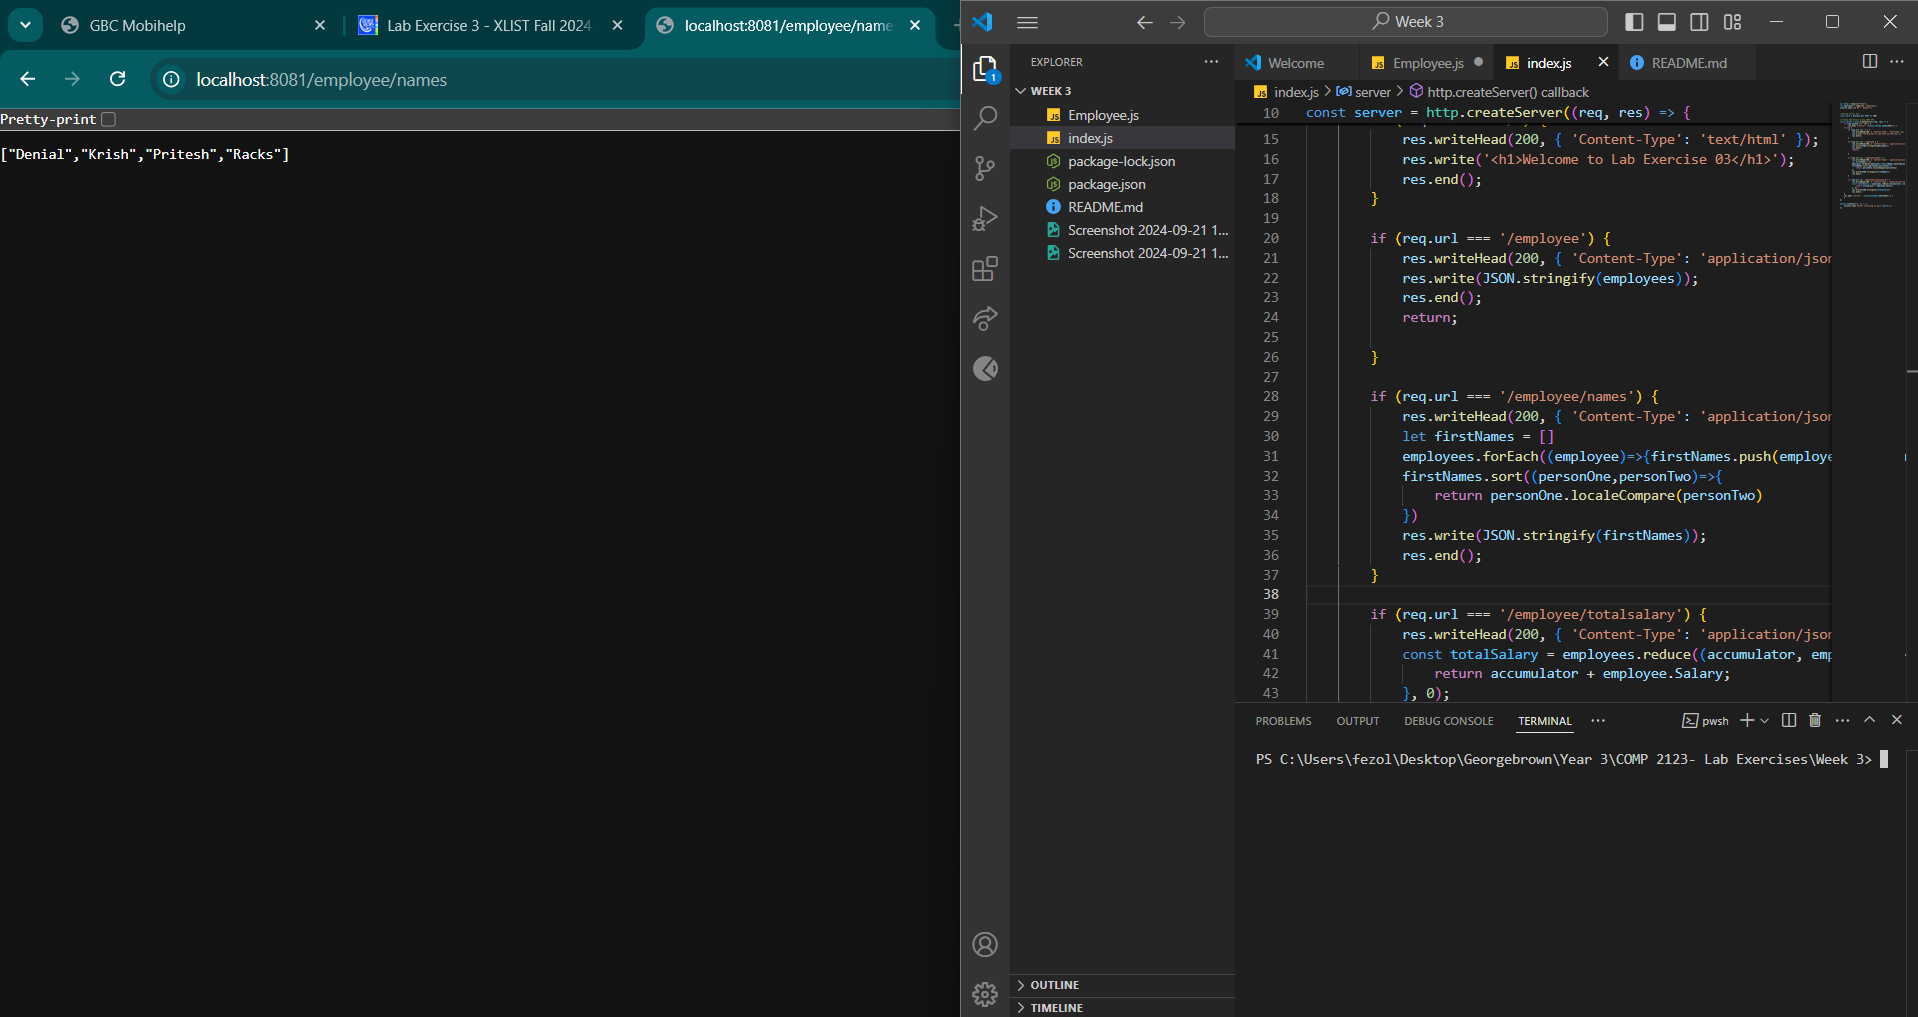
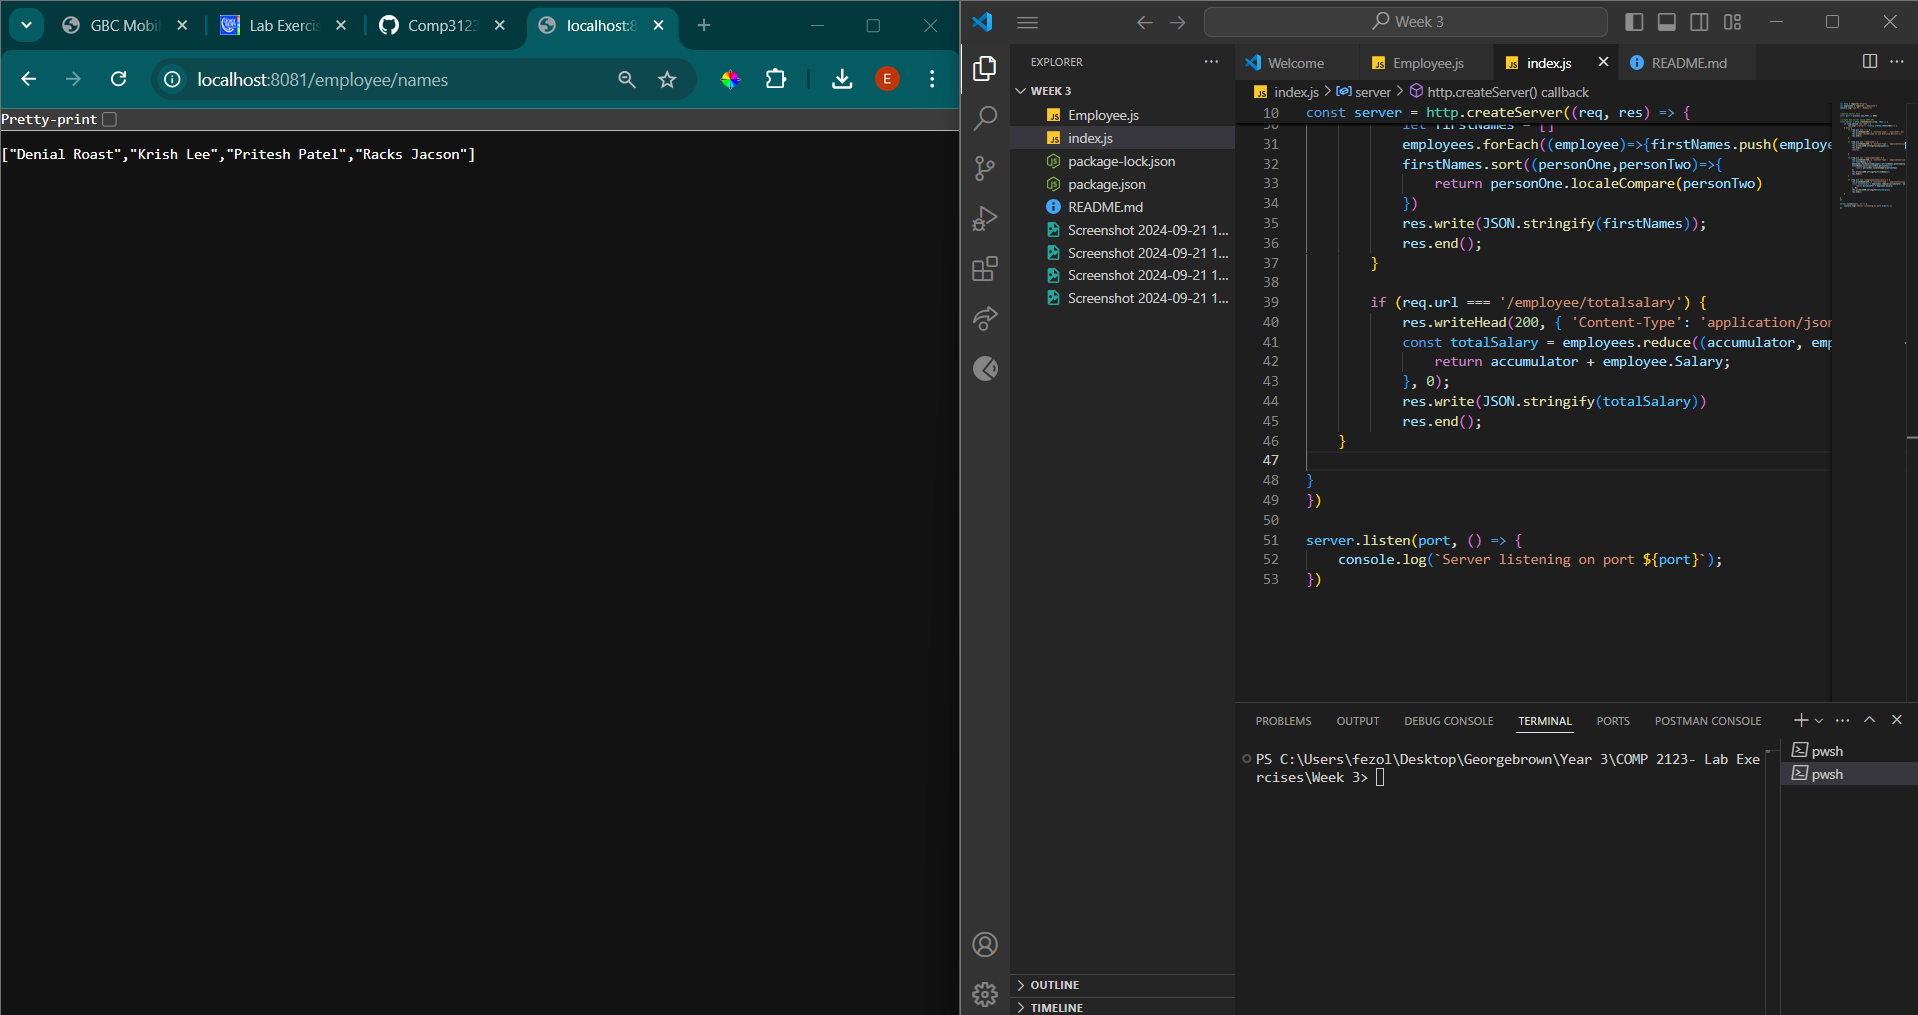
Fixed Exercise 3 Full Name Issue

diff --git a/Week 3/index.js b/Week 3/index.js
@@ -28,7 +28,7 @@ const server = http.createServer((req, res) => {
         if (req.url === '/employee/names') {
             res.writeHead(200, { 'Content-Type': 'application/json' });
             let firstNames = []
-            employees.forEach((employee)=>{firstNames.push(employee.firstName)})
+            employees.forEach((employee)=>{firstNames.push(employee.firstName + " " +  employee.lastName)})
             firstNames.sort((personOne,personTwo)=>{
                 return personOne.localeCompare(personTwo)
             })
@@ -44,9 +44,7 @@ const server = http.createServer((req, res) => {
             res.write(JSON.stringify(totalSalary))
             res.end();
     }
-    else{
-    res.end(`{"error": "${http.STATUS_CODES[404]}"}`)
-    }
+
 }
 })
 

diff --git a/Week 3/Employee.js b/Week 3/Employee.js
@@ -1,5 +1,3 @@
-//TODO - Create Employee Module here and export to use in index.js
-
 let employees = [
     {id: 1, firstName: "Pritesh", lastName: "Patel", email: "pritesh@gmail.com", Salary:5000},
     {id: 2, firstName: "Krish", lastName: "Lee", email: "krish@gmail.com", Salary:4000},
